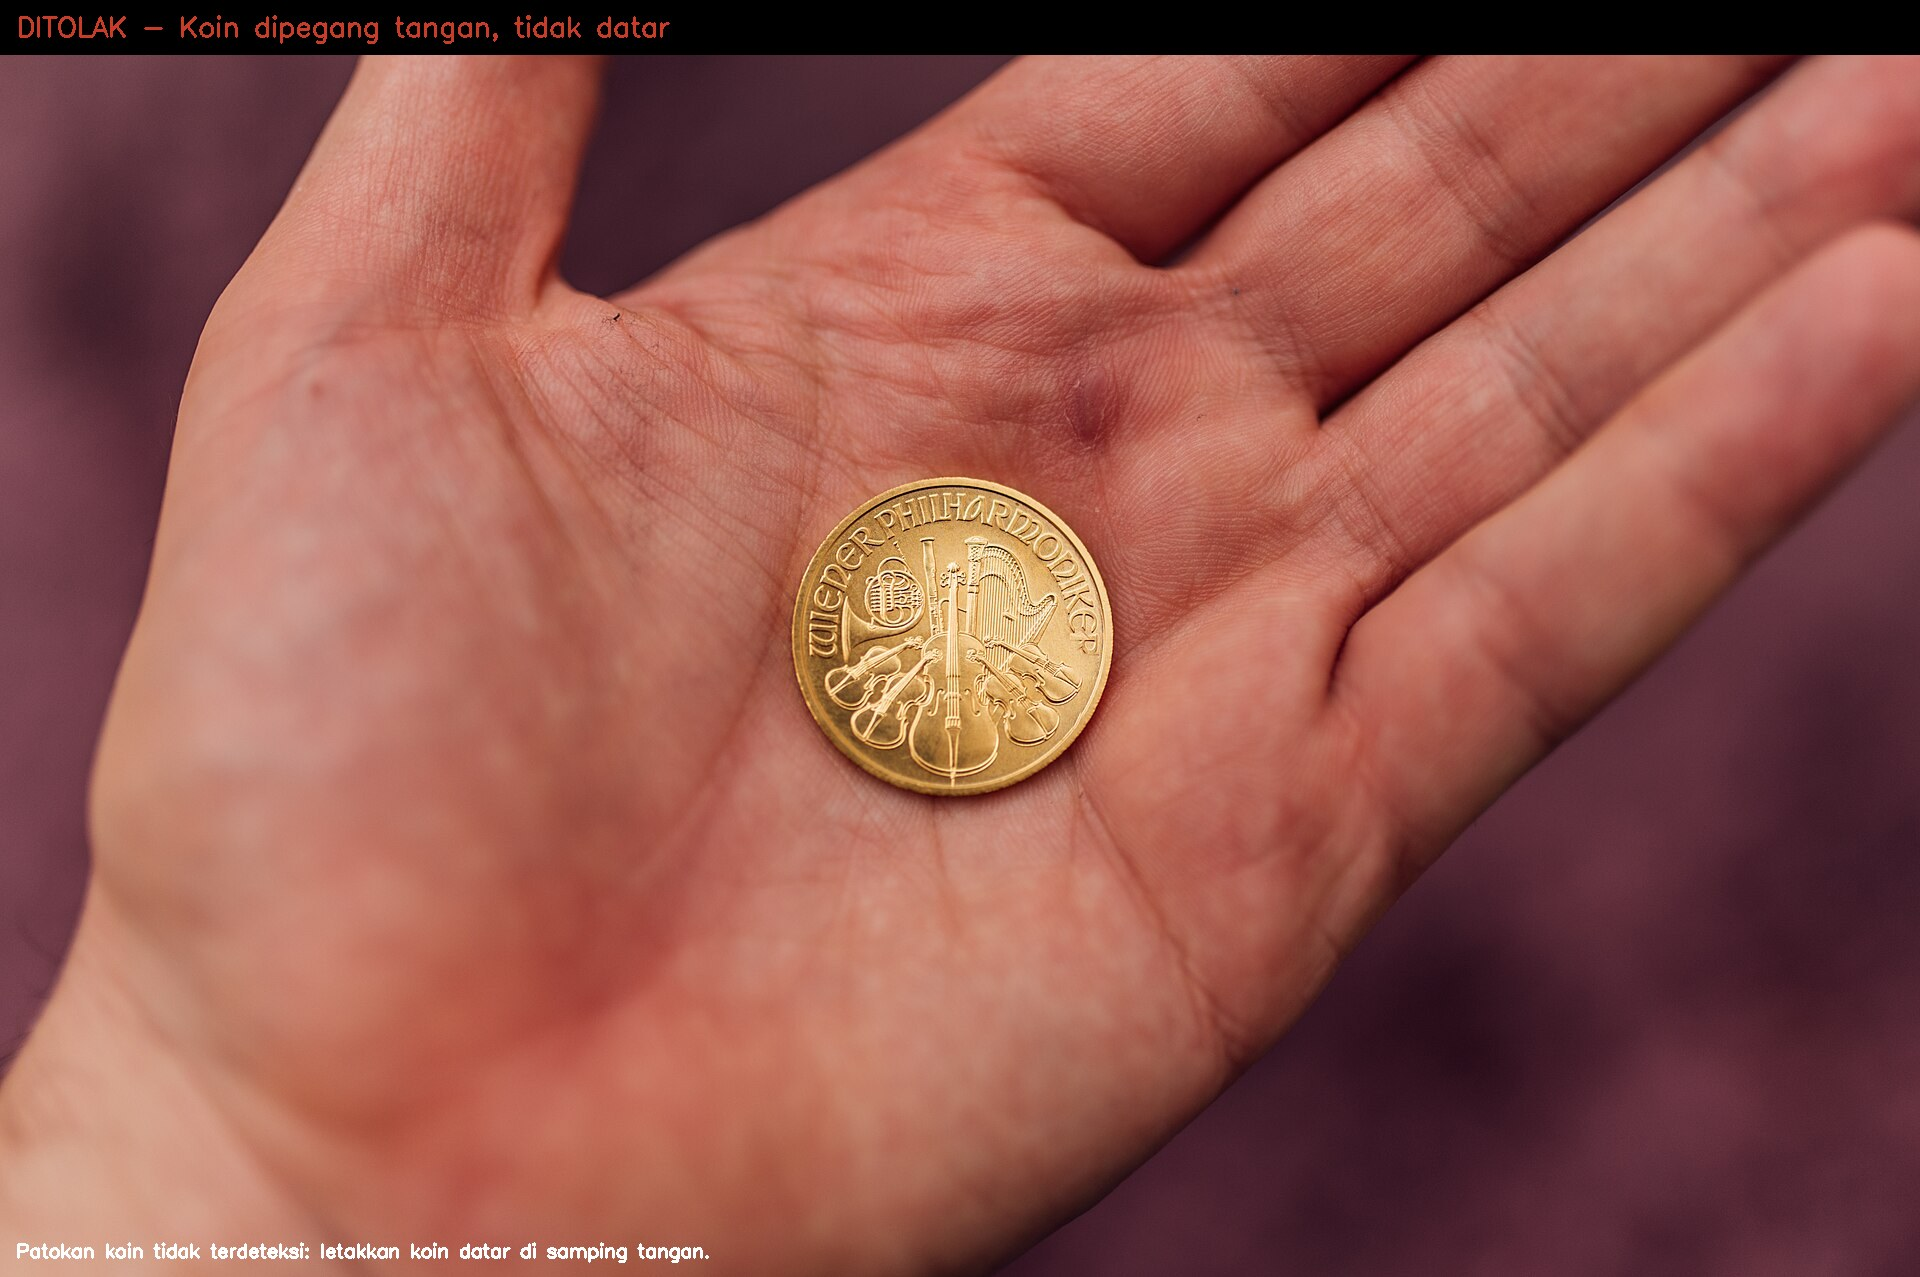
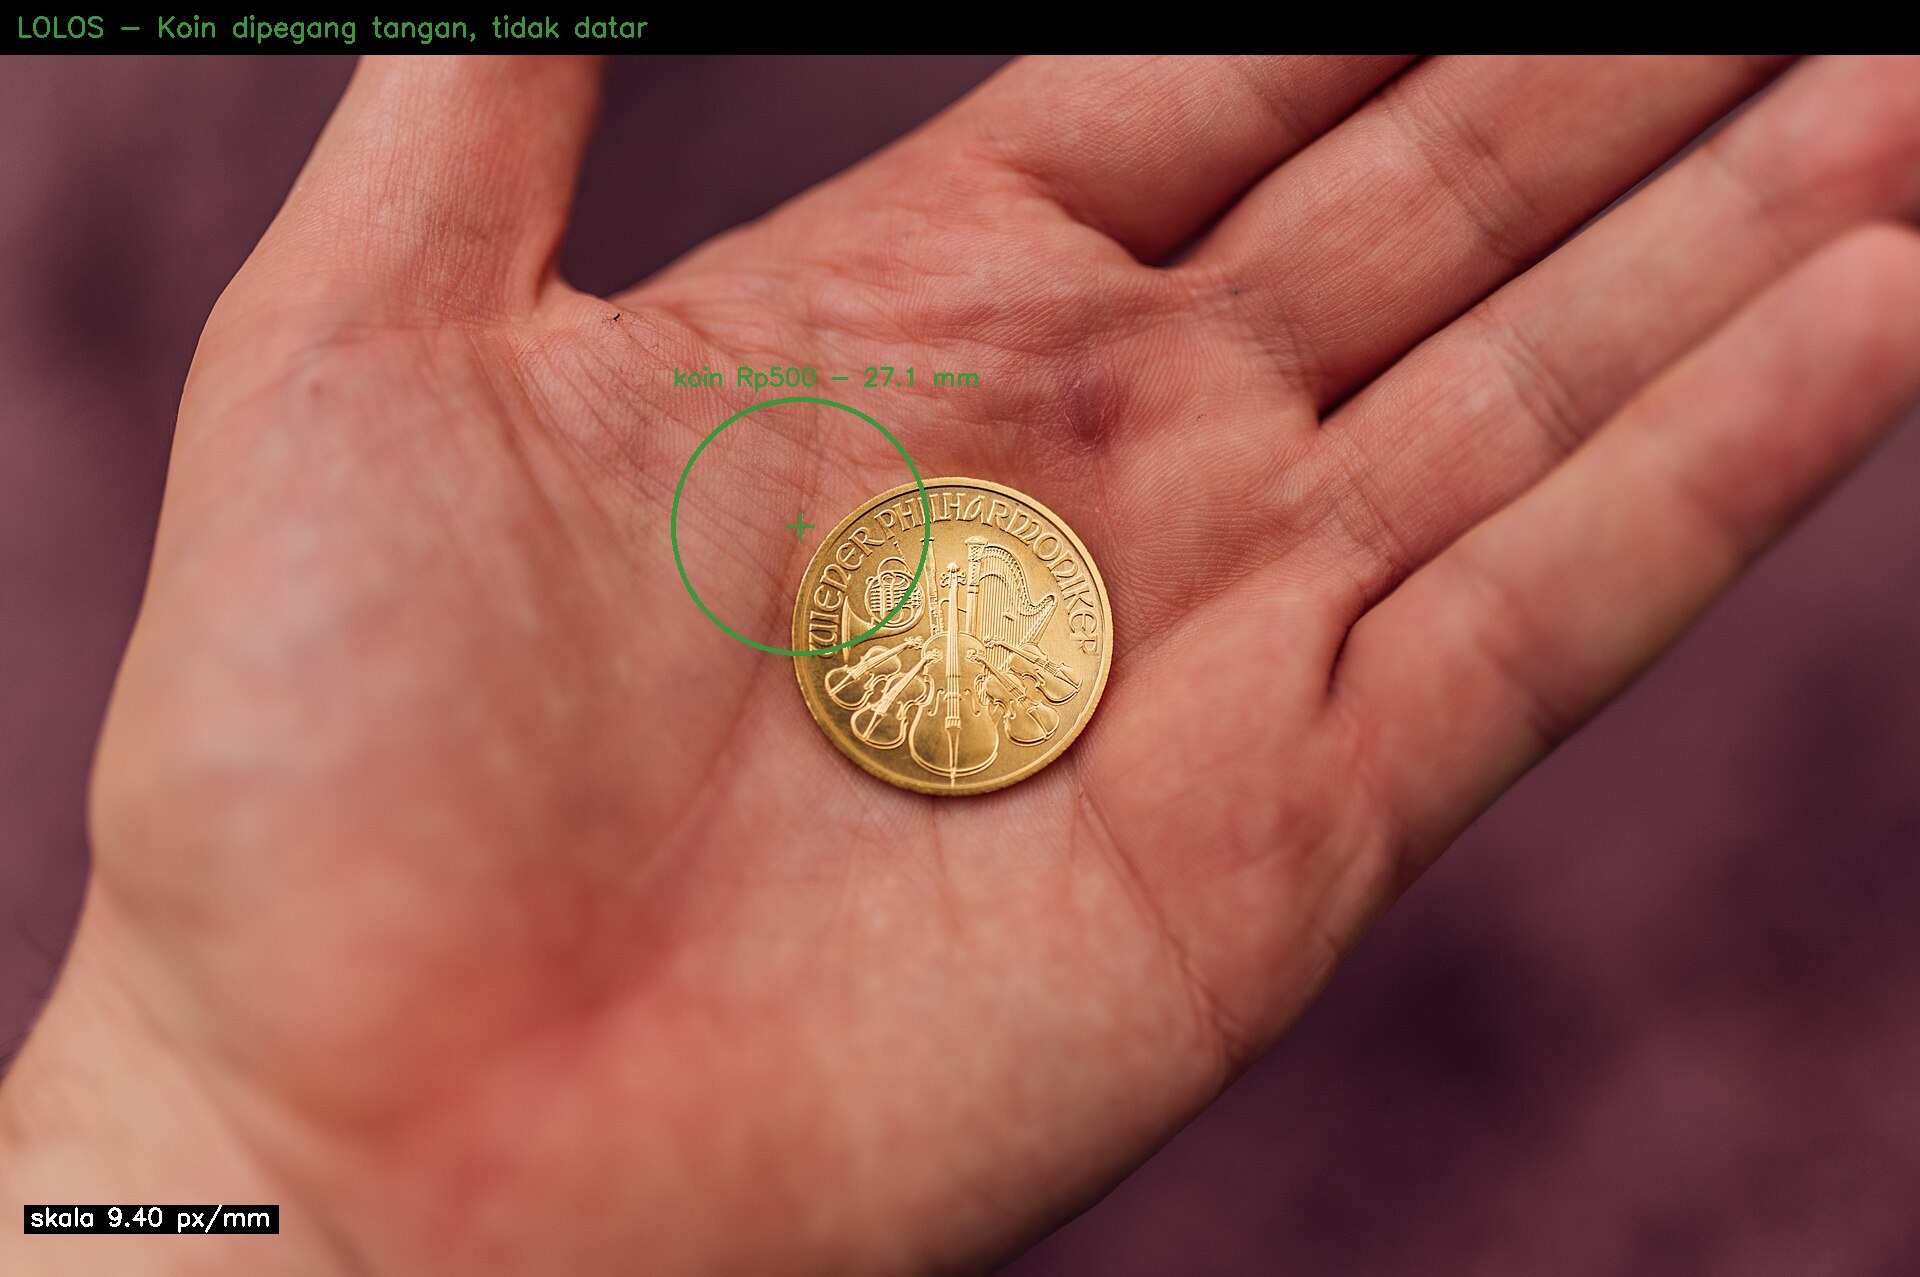
feat(coins): pakai tabel diameter resmi pemilik (Rp500 27,10 / Rp1000 24,10)
Tabel pemilik membedakan seri: Rp500 TE2003 27,00 vs TE2016 27,20. Memakai satu angka 27,0
untuk semua seri = galat sistematis ~0,7%. API tetap per nominal (27,10 = nilai tengah),
SERIES menyimpan angka per seri, dan angka di README/uji ikut disesuaikan.

diff --git a/scripts/make_samples.py b/scripts/make_samples.py
@@ -1,14 +1,18 @@
 """Buat foto contoh + gambar hasil anotasi untuk README (ikut di-commit, bukan fixture uji).
 
-Masukan: fixtures/*.jpg (dibuat oleh scripts/make_fixtures.py, tidak di-commit).
-Keluaran: samples/contoh-*.jpg (foto masukan) dan samples/hasil-*.jpg (anotasi).
+Tiga kelompok:
+1. samples/asli/    foto asli pemilik (jempol + empat jari dengan koin Rp500), EXIF dihapus,
+                    dipakai dengan izin pemilik. Butuh --data-dir ke paket data pemilik.
+2. samples/real/    foto tangan CC BY 2.0 sebagai uji negatif.
+3. samples/contoh-* scene sintetis ber-ground-truth untuk uji geometri.
 
-Semua foto contoh adalah scene sintetis buatan scripts/make_fixtures.py: koin digambar dengan
-radius pasti, teksturnya dari foto koin domain publik Wikimedia Commons. Bukan foto pelanggan.
+Pakai:
+    python scripts/make_samples.py --data-dir ~/Downloads/dinail_data_siap_pakai
 """
 
 from __future__ import annotations
 
+import argparse
 import shutil
 import sys
 from pathlib import Path
@@ -29,6 +33,12 @@ REAL_CASES = [
     ("real-hand-coin", "tangan-koin-emas.jpg", "Koin dipegang tangan, tidak datar"),
     ("real-hand-coin2", "tangan-koin-kecil.jpg", "Koin kecil di jari, bukan patokan"),
     ("real-hand-ruler", "tangan-penggaris.jpg", "Tangan di penggaris, tanpa koin"),
+]
+
+# Foto pemilik yang dipakai di README: grup S01 (berlabel ukuran), koin Rp500 27,10 mm.
+ASLI_CASES = [
+    ("jempol-koin-500", "FOTO_027.jpg", "500", "Jempol + koin Rp500"),
+    ("empat-jari-koin-500", "FOTO_028.jpg", "500", "Empat jari + koin Rp500"),
 ]
 
 CASES = [
@@ -80,7 +90,42 @@ def annotate(img: np.ndarray, res, title: str, object_label: str = "objek uji") 
     return out
 
 
+def read_clean(path: Path) -> np.ndarray:
+    """Baca lalu tulis ulang tanpa EXIF: foto pemilik tidak membawa metadata kamera/GPS."""
+    img = cv2.imread(str(path))
+    if img is None:
+        raise SystemExit(f"tidak bisa membaca {path}")
+    return img
+
+
+def emit_asli(data_dir: Path) -> None:
+    src_dir = data_dir / "02_foto_ukuran" / "foto"
+    out = OUT / "asli"
+    out.mkdir(exist_ok=True)
+    for name, src, coin, title in ASLI_CASES:
+        img = read_clean(src_dir / src)
+        h, w = img.shape[:2]
+        if max(h, w) > 1280:
+            f = 1280 / max(h, w)
+            img = cv2.resize(img, None, fx=f, fy=f, interpolation=cv2.INTER_AREA)
+        # imwrite menulis JPEG baru: EXIF (GPS, model kamera, waktu) tidak ikut
+        cv2.imwrite(str(out / f"{name}.jpg"), img, [cv2.IMWRITE_JPEG_QUALITY, 92])
+
+        res = analyze((out / f"{name}.jpg").read_bytes(), coin=coin)
+        annotated = annotate(img, res, title, "lebar kuku (input UI)")
+        cv2.imwrite(str(out / f"hasil-{name}.jpg"), annotated, [cv2.IMWRITE_JPEG_QUALITY, 88])
+        print(f"{name}: ok={res.ok} koin={bool(res.coin)} skala={res.scale_px_per_mm} "
+              f"| {res.quality['reasons'][:1]}")
+
+
 def main() -> int:
+    ap = argparse.ArgumentParser()
+    ap.add_argument("--data-dir", help="paket data pemilik (berisi 02_foto_ukuran/foto)")
+    args = ap.parse_args()
+
+    if args.data_dir:
+        emit_asli(Path(args.data_dir).expanduser())
+
     if not (FIX / "ground_truth.json").exists():
         print("fixtures belum ada: jalankan scripts/make_fixtures.py dulu", file=sys.stderr)
         return 1

diff --git a/dinail_ai/coins.py b/dinail_ai/coins.py
@@ -1,18 +1,32 @@
-"""Tabel diameter resmi koin Rupiah (Bank Indonesia / Wikipedia 'Uang koin rupiah').
+"""Tabel diameter resmi koin Rupiah.
 
 Dipakai sebagai patokan skala: skala (px/mm) = diameter_px / diameter_mm.
-Sumber: id.wikipedia.org/wiki/Uang_koin_rupiah (tabel koin beredar), diambil 2026-11-08.
-CATATAN: nilai harus dikonfirmasi ke pemilik (dinail.co) saat tabel konversi ukuran diserahkan.
+Sumber: `referensi_diameter_koin.csv` dari paket data pemilik (Peraturan Bank Indonesia),
+bukan lagi Wikipedia. Seri berbeda punya diameter berbeda: Rp500 TE2003 27,00 mm sedangkan
+TE2016 27,20 mm, jadi memakai satu angka untuk semua seri = galat sistematis ~0,7%.
+
+`COINS` memakai satu angka per nominal untuk API yang hanya tahu nominal; untuk Rp500 dipakai
+nilai tengah 27,10 mm (emisi sering tidak terbaca di foto) dan `SERIES` menyimpan angka resmi
+per seri kalau nanti jenis koin dipilih lebih spesifik.
 """
 
-# diameter_mm, tebal_mm, berat_g, tahun berlaku
 COINS = {
-    "50":   {"diameter_mm": 20.0, "thickness_mm": 2.00, "mass_g": 1.36, "years": [1999]},
-    "100":  {"diameter_mm": 23.0, "thickness_mm": 2.00, "mass_g": 1.79, "years": [1999, 2016]},
-    "200":  {"diameter_mm": 25.0, "thickness_mm": 2.20, "mass_g": 2.38, "years": [2003, 2016]},
-    "500":  {"diameter_mm": 27.0, "thickness_mm": 2.35, "mass_g": 3.10, "years": [2003, 2016]},
-    "1000": {"diameter_mm": 24.0, "thickness_mm": 1.45, "mass_g": 4.50, "years": [2010, 2016]},
+    "50": {"diameter_mm": 20.00, "thickness_mm": 2.00, "mass_g": 1.36, "years": [1999]},
+    "100": {"diameter_mm": 23.00, "thickness_mm": 2.00, "mass_g": 1.79, "years": [1999, 2016]},
+    "200": {"diameter_mm": 25.00, "thickness_mm": 2.20, "mass_g": 2.38, "years": [2003, 2016]},
+    "500": {"diameter_mm": 27.10, "thickness_mm": 2.35, "mass_g": 3.10, "years": [2003, 2016]},
+    "1000": {"diameter_mm": 24.10, "thickness_mm": 1.45, "mass_g": 4.50, "years": [2010, 2016]},
+}
+
+# Diameter resmi per seri (dari tabel pemilik) untuk pemakaian yang lebih teliti.
+SERIES = {
+    "500-2003": 27.00,
+    "500-2016": 27.20,
+    "200-2003": 25.00,
+    "200-2016": 25.00,
+    "100-2016": 23.00,
+    "1000-2016": 24.10,
 }
 
 # Koin yang ukurannya terlalu berdekatan untuk dibedakan dari diameter saja.
-AMBIGUOUS_PAIRS = [("1000", "200")]  # 24 mm vs 25 mm -> selisih 1 mm
+AMBIGUOUS_PAIRS = [("1000", "200")]  # 24,1 mm vs 25,0 mm -> selisih <1 mm

diff --git a/tests/test_api.py b/tests/test_api.py
@@ -8,6 +8,7 @@ from pathlib import Path
 from fastapi.testclient import TestClient
 
 from dinail_ai.app import app
+from dinail_ai.coins import COINS
 
 ROOT = Path(__file__).resolve().parents[1]
 FIX = ROOT / "fixtures"
@@ -21,7 +22,7 @@ def client() -> TestClient:
 def test_health_reports_coin_table():
     h = client().get("/health").json()
     assert h["status"] == "ok"
-    assert h["coins"]["500"] == 27.0
+    assert h["coins"]["500"] == 27.10
     assert h["size_table_configured"] is False  # pemilik belum menyerahkan tabel
 
 
@@ -41,7 +42,7 @@ def test_analyze_full_response():
     assert body["ok"] is True
     assert body["quality"]["pass"] is True
     assert body["coin"]["type"] == case["coin"]
-    assert body["coin"]["diameter_mm"] == case["diameter_mm"]
+    assert body["coin"]["diameter_mm"] == COINS[case["coin"]]["diameter_mm"]
     assert body["nail"]["suggestion"]["size"] is None  # tabel pemilik belum ada
     assert body["elapsed_ms"] < 8000
 

diff --git a/tests/test_analyze.py b/tests/test_analyze.py
@@ -53,7 +53,7 @@ def test_small_coin_rejected_with_reason():
 def test_scale_comes_from_declared_coin(case):
     res = analyze((FIX / CASE).read_bytes(), coin="500")
     assert res.ok
-    assert res.coin["diameter_mm"] == 27.0
+    assert res.coin["diameter_mm"] == 27.10
     assert "source" not in res.coin  # terdeteksi dari foto, bukan input manual
 
 

diff --git a/tests/test_coins.py b/tests/test_coins.py
@@ -5,7 +5,7 @@ from dinail_ai.coins import AMBIGUOUS_PAIRS, COINS
 
 def test_table_matches_official_diameters():
     assert {k: v["diameter_mm"] for k, v in COINS.items()} == {
-        "50": 20.0, "100": 23.0, "200": 25.0, "500": 27.0, "1000": 24.0,
+        "50": 20.0, "100": 23.0, "200": 25.0, "500": 27.10, "1000": 24.10,
     }
 
 

diff --git a/README.md b/README.md
@@ -44,7 +44,8 @@ foto tangan + koin
 | `scripts/make_fixtures.py` | pembuat scene uji ber-ground-truth + crop foto koin |
 | `scripts/make_samples.py` | pembuat foto contoh + gambar anotasi hasil untuk README |
 | `samples/` | foto contoh sintetis (`contoh-*.jpg`) dan gambar hasil anotasinya (`hasil-*.jpg`) |
-| `samples/real/` | tiga foto tangan asli (CC BY 2.0) untuk uji regresi, plus anotasi dan atribusi |
+| `samples/asli/` | foto asli pemilik (jempol + empat jari) dan hasil anotasinya |
+| `samples/real/` | tiga foto tangan asli (CC BY 2.0) untuk uji negatif, plus atribusi |
 | `tests/` | 46 uji: tabel koin, gerbang kualitas, deteksi & akurasi, tabel ukuran, orkestrasi, API |
 
 ## Jalankan
@@ -62,38 +63,29 @@ Swagger.
 
 ## Contoh foto & hasil
 
-### Koin Rupiah (foto asli, domain publik)
+Foto asli dari pemilik dinail.co (sampel berlabel S01): jempol dan empat jari dengan koin
+Rp500 yang sama. EXIF dihapus dan tidak ada wajah atau nama di dalamnya; dipakai dengan izin
+pemilik untuk capstone ini.
 
-Foto koin yang dipakai sebagai patokan skala, `samples/koin/` (atribusi di
-`samples/koin/ATTRIBUTION.md`):
+| masukan | hasil |
+|---|---|
+| ![Jempol dengan koin](samples/asli/jempol-koin-500.jpg) | ![Hasil jempol](samples/asli/hasil-jempol-koin-500.jpg) |
+| ![Empat jari dengan koin](samples/asli/empat-jari-koin-500.jpg) | ![Hasil empat jari](samples/asli/hasil-empat-jari-koin-500.jpg) |
 
-| Rp500 | Rp1000 | Rp200 | Rp100 |
+Skala yang keluar dibandingkan dengan ukur manual tim DS pada foto yang sama:
+
+| foto | skala manual | skala layanan | selisih |
 |---|---|---|---|
-| ![Rp500](samples/koin/koin-500.jpg) | ![Rp1000](samples/koin/koin-1000.jpg) | ![Rp200](samples/koin/koin-200.jpg) | ![Rp100](samples/koin/koin-100.jpg) |
+| `jempol-koin-500` | 10,57 px/mm | 10,77 px/mm | +1,8% |
+| `empat-jari-koin-500` | 8,42 px/mm | 8,52 px/mm | +1,2% |
 
-Hanya foto Rp500 yang punya margin di sekeliling koin, jadi hanya itu yang diterima detektor
-(r=475 px pada sisi 1024). Tiga lainnya dipotong tepat di tepi koin, sehingga kelilingnya tidak
-utuh di dalam frame dan sengaja ditolak.
+Layanan **belum** mengukur lebar kuku: yang digambar hanya lingkaran koin dan skala. Lebar
+kuku masih dikirim UI/admin dalam piksel (lihat "Yang belum dikerjakan").
 
-### Foto tangan (uji negatif)
-
-Tiga foto tangan asli (CC BY 2.0, atribusi di `samples/real/ATTRIBUTION.md`). Ketiganya
-**ditolak** karena tidak ada koin Rupiah utuh yang layak jadi patokan:
-
-| masukan | hasil | alasan yang keluar |
-|---|---|---|
-| ![Tangan menggenggam koin](samples/real/tangan-koin-emas.jpg) | ![Hasil](samples/real/hasil-real-hand-coin.jpg) | patokan koin tidak terdeteksi |
-| ![Koin kecil di jari](samples/real/tangan-koin-kecil.jpg) | ![Hasil](samples/real/hasil-real-hand-coin2.jpg) | patokan koin tidak terdeteksi |
-| ![Tangan di penggaris](samples/real/tangan-penggaris.jpg) | ![Hasil](samples/real/hasil-real-hand-ruler.jpg) | patokan koin tidak terdeteksi |
-
-Yang belum ada di repo: **foto jari + koin Rupiah**. Format yang dituju adalah dua foto seperti
-panduan ukur press-on pada umumnya — (1) jempol dengan koin rebah di meja, (2) empat jari
-berdampingan dengan koin yang sama. Foto pelanggan tidak dipublikasikan karena privasi, foto
-tangan di atas memakai koin non-Rupiah, dan gambar dari media sosial bukan milik tim untuk
-dipublikasikan. Sampai foto itu ada, layanan **belum punya bukti akurasi pada foto jenis ini**.
-
-Layanan juga belum mendeteksi kuku sama sekali: lebar kuku dikirim UI/admin dalam piksel, jadi
-tidak ada "deteksi kuku" yang bisa dipamerkan.
+Uji negatif (tidak ditampilkan sebagai contoh): tiga foto tangan CC BY 2.0 di `samples/real/`
+dipakai memastikan layanan menolak foto tanpa koin Rupiah yang layak. Dua ditolak; satu
+(telapak dengan koin digenggam) masih lolos — batas yang diketahui, dijelaskan di bagian
+"Hasil pada foto pemilik".
 
 ### Scene sintetis untuk uji geometri
 
@@ -110,10 +102,9 @@ geometri, bukan memperagakan kuku.
 | ![Scene uji tanpa jenis koin](samples/contoh-04-tanpa-jenis-koin.jpg) | ![Hasil anotasi](samples/hasil-tanpa-jenis-koin.jpg) |
 
 Pada gambar hasil, angka mm diberi label "objek uji", bukan "kuku", karena memang bukan kuku.
-Koin yang terdeteksi tetap koin asli (foto domain publik) yang ditempel pada radius pasti.
 
-Gambar hasil dan JSON di bawah dibuat oleh `scripts/make_samples.py` yang memanggil pipeline
-yang sama seperti layanan, bukan ditulis tangan.
+Gambar hasil dibuat oleh `scripts/make_samples.py` yang memanggil pipeline yang sama seperti
+layanan, bukan ditulis tangan.
 
 ## Contoh input & output
 
@@ -142,20 +133,20 @@ curl -X POST http://localhost:8000/v1/analyze \
   "coin": {
     "found": true,
     "center_px": [
-      1120.3,
-      541.2
+      1120.5,
+      541.3
     ],
     "radius_px": 121.2,
-    "diameter_px": 242.4,
-    "score": 0.928,
+    "diameter_px": 242.3,
+    "score": 0.925,
     "alternatives": [],
     "type": "500",
-    "diameter_mm": 27.0
+    "diameter_mm": 27.1
   },
-  "scale_px_per_mm": 8.9785,
+  "scale_px_per_mm": 8.9414,
   "nail": {
     "width_px": 118.8,
-    "width_mm": 13.23,
+    "width_mm": 13.29,
     "suggestion": {
       "size": null,
       "reason": "tabel konversi ukuran pemilik belum diisi",
@@ -163,12 +154,12 @@ curl -X POST http://localhost:8000/v1/analyze \
     }
   },
   "warnings": [],
-  "elapsed_ms": 145.3
+  "elapsed_ms": 185.7
 }
 ```
 
 Fotonya asli 1600×1200 dengan koin 242,4 px; skala sebenarnya 9,0 px/mm, jadi error skala
-0,24% dan lebar kuku 13,23 mm (sebenarnya 13,2 mm). `suggestion.size` masih `null` karena
+0,65% dan lebar kuku 13,29 mm (sebenarnya 13,2 mm). `suggestion.size` masih `null` karena
 tabel konversi pemilik belum diisi — layanan sengaja tidak menebak.
 
 ### 2. Foto buram
@@ -198,7 +189,7 @@ curl -X POST http://localhost:8000/v1/analyze \
   "scale_px_per_mm": null,
   "nail": null,
   "warnings": [],
-  "elapsed_ms": 41.9
+  "elapsed_ms": 53.1
 }
 ```
 
@@ -231,16 +222,16 @@ curl -X POST http://localhost:8000/v1/analyze \
       539.9
     ],
     "radius_px": 52.4,
-    "diameter_px": 104.8,
-    "score": 0.99,
+    "diameter_px": 104.9,
+    "score": 0.987,
     "alternatives": [],
     "type": "100",
     "diameter_mm": 23.0
   },
-  "scale_px_per_mm": 4.5567,
+  "scale_px_per_mm": 4.5607,
   "nail": null,
   "warnings": [],
-  "elapsed_ms": 59.5
+  "elapsed_ms": 89.2
 }
 ```
 
@@ -273,18 +264,18 @@ curl -X POST http://localhost:8000/v1/analyze \
   "coin": {
     "found": true,
     "center_px": [
-      1120.3,
+      1120.2,
       541.7
     ],
-    "radius_px": 149.4,
+    "radius_px": 149.5,
     "diameter_px": 298.9,
-    "score": 0.878,
+    "score": 0.887,
     "alternatives": []
   },
   "scale_px_per_mm": null,
   "nail": null,
   "warnings": [],
-  "elapsed_ms": 165.8
+  "elapsed_ms": 123.8
 }
 ```
 
@@ -414,13 +405,17 @@ width_mm, suggestion}`, `warnings[]`, `elapsed_ms`.
 
 Diameter koin (sumber: Wikipedia "Uang koin rupiah"; perlu dikonfirmasi ke pemilik):
 
-| Nominal | Diameter | Tebal | Berat | Tahun |
+| Nominal | Diameter dipakai | Per seri (tabel pemilik) | Tebal | Berat |
 |---|---|---|---|---|
-| Rp50 | 20 mm | 2,00 mm | 1,36 g | 1999 |
-| Rp100 | 23 mm | 2,00 mm | 1,79 g | 1999, 2016 |
-| Rp200 | 25 mm | 2,20 mm | 2,38 g | 2003, 2016 |
-| Rp500 | 27 mm | 2,35 mm | 3,10 g | 2003, 2016 |
-| Rp1000 | 24 mm | 1,45 mm | 4,50 g | 2010, 2016 |
+| Rp50 | 20,00 mm | — | 2,00 mm | 1,36 g |
+| Rp100 | 23,00 mm | TE2016 23,00 | 2,00 mm | 1,79 g |
+| Rp200 | 25,00 mm | TE2003 25,00 · TE2016 25,00 | 2,20 mm | 2,38 g |
+| Rp500 | 27,10 mm | TE2003 27,00 · TE2016 27,20 | 2,35 mm | 3,10 g |
+| Rp1000 | 24,10 mm | TE2016 24,10 | 1,45 mm | 4,50 g |
+
+Sumber: `referensi_diameter_koin.csv` dari paket data pemilik (Peraturan BI), bukan Wikipedia.
+Rp500 dipakai 27,10 mm karena emisi sering tidak terbaca di foto; seri yang pasti disimpan di
+`SERIES` untuk pemakaian yang lebih teliti.
 
 Ambang gerbang kualitas (`dinail_ai/quality.py`):
 
@@ -438,12 +433,12 @@ yang sama. Ini bukan akurasi pada foto asli — lihat bagian "Uji dengan foto as
 
 | file | koin | skala asli | terdeteksi | error | lebar asli | terdeteksi | error | vonis |
 |---|---|---|---|---|---|---|---|---|
-| g1_500 | Rp500 | 6,0 px/mm | 5,991 | 0,14% | 11,5 mm | 11,52 mm | 0,02 mm | lolos |
-| g2_500 | Rp500 | 9,0 px/mm | 8,979 | 0,24% | 13,2 mm | 13,23 mm | 0,03 mm | lolos |
-| g3_1000 | Rp1000 | 7,5 px/mm | 7,463 | 0,50% | 14,0 mm | 14,07 mm | 0,07 mm | lolos |
-| g4_200 | Rp200 | 12,0 px/mm | 11,955 | 0,38% | 15,5 mm | 15,56 mm | 0,06 mm | lolos |
-| g5_100 | Rp100 | 4,5 px/mm | 4,557 | 1,26% | 10,4 mm | 10,27 mm | 0,13 mm | ditolak (koin 105 px) |
-| g6_1000 | Rp1000 | 14,0 px/mm | 13,877 | 0,88% | 16,8 mm | 16,95 mm | 0,15 mm | lolos |
+| g1_500 | Rp500 | 6,0 px/mm | 5,966 | 0,57% | 11,5 mm | 11,57 mm | 0,07 mm | lolos |
+| g2_500 | Rp500 | 9,0 px/mm | 8,941 | 0,65% | 13,2 mm | 13,29 mm | 0,09 mm | lolos |
+| g3_1000 | Rp1000 | 7,5 px/mm | 7,436 | 0,85% | 14,0 mm | 14,12 mm | 0,12 mm | lolos |
+| g4_200 | Rp200 | 12,0 px/mm | 11,958 | 0,35% | 15,5 mm | 15,55 mm | 0,05 mm | lolos |
+| g5_100 | Rp100 | 4,5 px/mm | 4,561 | 1,35% | 10,4 mm | 10,26 mm | 0,14 mm | ditolak (koin 105 px) |
+| g6_1000 | Rp1000 | 14,0 px/mm | 13,822 | 1,27% | 16,8 mm | 17,02 mm | 0,22 mm | lolos |
 
 Angka ini mengukur **geometri dan gerbangnya**, bukan akurasi pada foto pelanggan dinail.co:
 untuk itu perlu foto berlabel dari pemilik plus penggaris sebagai pembanding.
@@ -465,5 +460,8 @@ ditolak. Versi per petak memberi 380–510 untuk foto yang sama, sedangkan foto 
 
 ## Lisensi data uji
 
-Foto koin di `fixtures/` berasal dari Wikimedia Commons (domain publik) dan hanya dipakai
-untuk menguji detektor. Data penjualan dan foto pelanggan dinail.co tidak ada di repo ini.
+- Foto koin di `fixtures/` dan `samples/koin/`: Wikimedia Commons, domain publik.
+- Foto tangan di `samples/real/`: CC BY 2.0, atribusi di `samples/real/ATTRIBUTION.md`.
+- Foto di `samples/asli/`: milik dinail.co, dipakai dengan izin pemilik untuk capstone
+  A26-CS222. EXIF dihapus; tidak ada wajah, nama, atau nomor pesanan di dalamnya.
+- Data penjualan (828 transaksi) dan 32 foto mentah pemilik tidak ada di repo ini.
